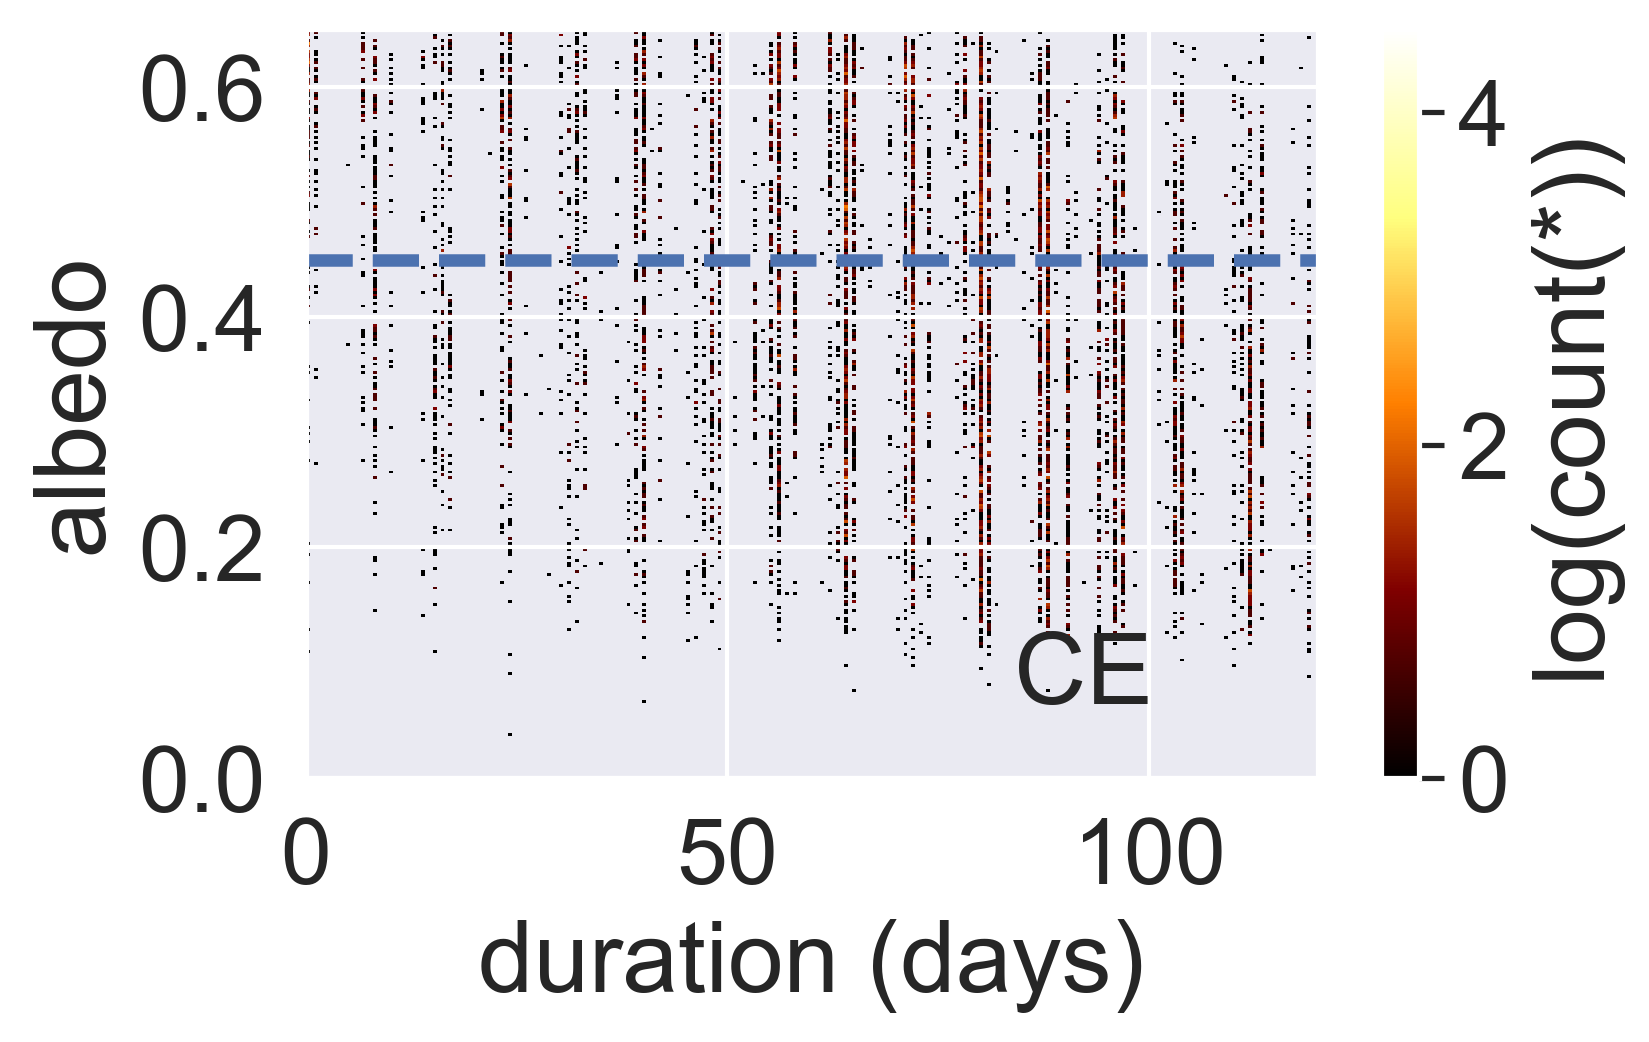
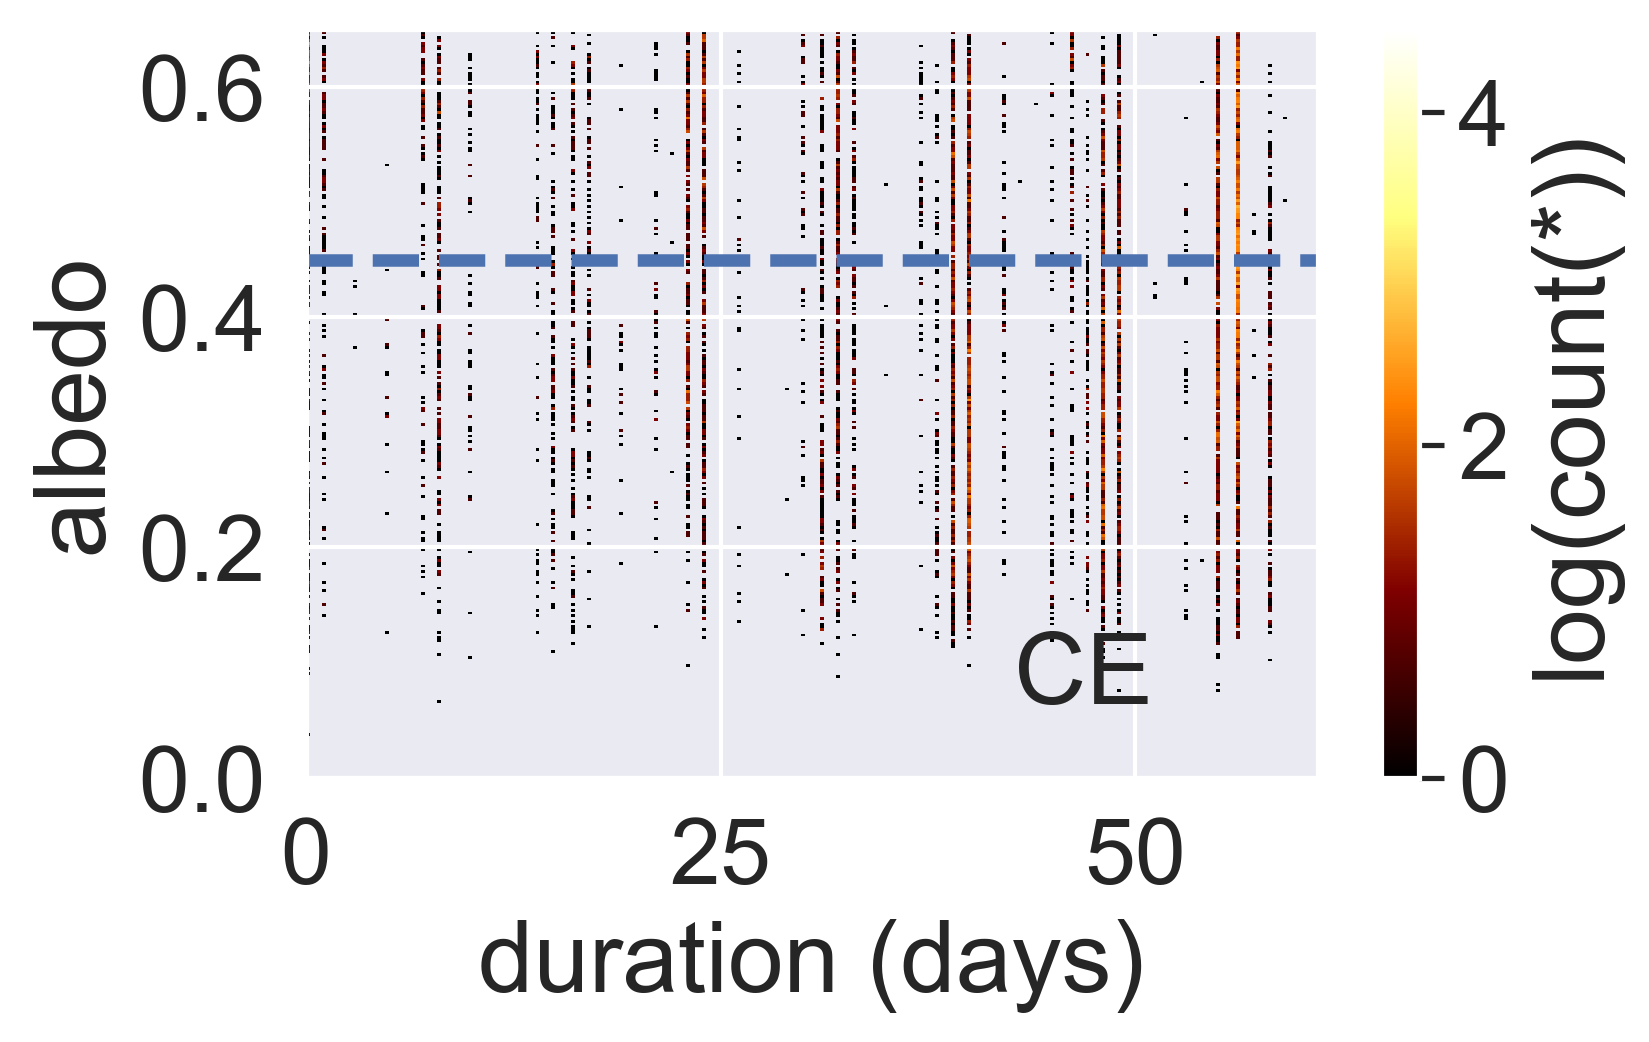
limit duration to 78

diff --git a/dataPrep.py b/dataPrep.py
@@ -136,7 +136,7 @@ for i in uniquei:
     print("Processing No. %d" % i)
     dfsub = df[df.id == i]
     for y in dfsub.year.unique():
-        index = (dfsub.month>5) & (dfsub.month<10) & (dfsub.albedo<0.65)  & (dfsub.year == y)
+        index = (dfsub.month>6) & (dfsub.month<9) & (dfsub.albedo<0.65)  & (dfsub.year == y)
         if sum(index) == 0:
             continue
         dfsub.duration[index] = (dfsub[index].datetime.iloc[-1] - dfsub[index].datetime.iloc[0]).days

diff --git a/topoanalysis.py b/topoanalysis.py
@@ -86,7 +86,7 @@ for i in basin:
     fig, ax = plt.subplots(figsize=(6,4))
     ax.annotate(i, xy=(0.7, 0.1),  xycoords='axes fraction')
     ax.axhline(0.45, ls='--', linewidth=3)
-    plt.xlim(0, 120)
+    plt.xlim(0, 61)
     plt.ylim(0, 0.65)
     topo_dura_plot(i)
     fig.savefig("print/basin/" + i + "_dura.png", dpi=300, bbox_inches="tight")     
